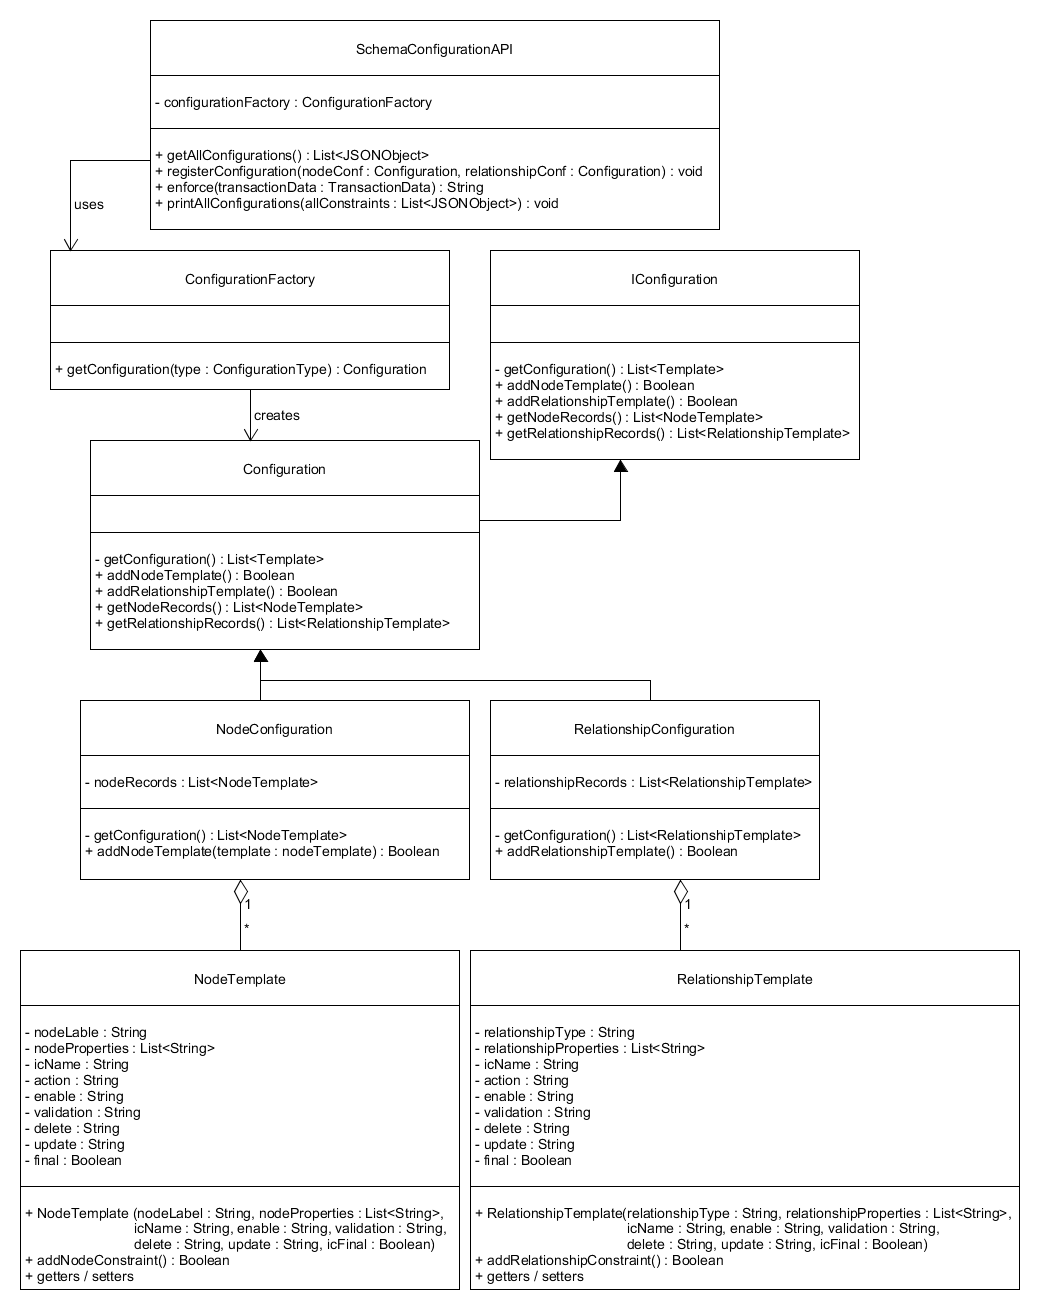
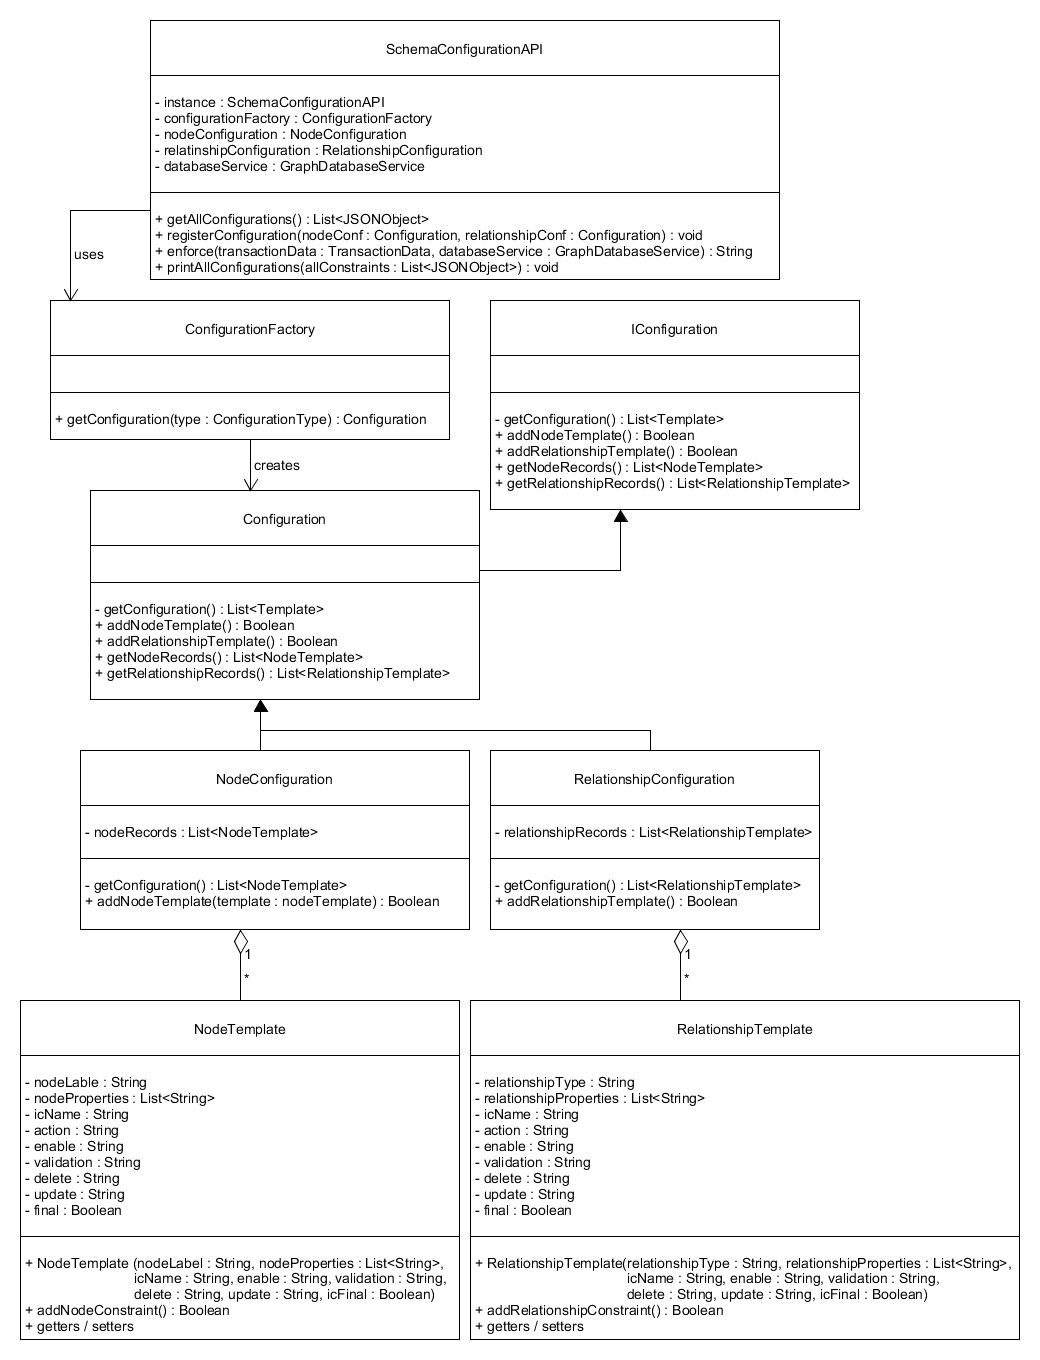
Updated API class diagram

diff --git a/src/main/java/com/kovacic/neo4j/schema/SchemaConfiguration.java b/src/main/java/com/kovacic/neo4j/schema/SchemaConfiguration.java
@@ -22,6 +22,7 @@ public class SchemaConfiguration implements ISchemaConfiguration {
     protected ConfigurationFactory configurationFactory = new ConfigurationFactory();
     private Configuration nodeConfiguration = new NodeConfiguration();
     private Configuration relatinshipConfiguration = new RelationshipConfiguration();
+    private GraphDatabaseService databaseService = null;
 
     @Override
     public List<JSONObject> getAllConfiguration() {
@@ -76,9 +77,10 @@ public class SchemaConfiguration implements ISchemaConfiguration {
     }
 
     @Override
-    public String enforce(TransactionData transactionData) {
+    public String enforce(TransactionData transactionData, GraphDatabaseService database) {
         if (transactionData == null)
             throw new IllegalArgumentException("No transaction data");
+        this.databaseService = database;
         // Disable this print
         printAllConfigurations(getAllConfiguration());
         String message = "";
@@ -303,7 +305,7 @@ public class SchemaConfiguration implements ISchemaConfiguration {
             }
         }
         // Check created nodes with database - not working
-        GraphDatabaseService database = transactionData.createdNodes().iterator().next().getGraphDatabase();
+        //GraphDatabaseService database = transactionData.createdNodes().iterator().next().getGraphDatabase();
         for (Iterator<Node> node1 = transactionData.createdNodes().iterator(); node1.hasNext(); ) {
             Node node = node1.next();
             obj1 = node.getProperty(getPropertyName(template));
@@ -312,12 +314,12 @@ public class SchemaConfiguration implements ISchemaConfiguration {
                 Label lab1 = ll1.next();
                 if (lab1.name().equals(template.nodeLabel)) {
                     if (node.hasProperty(getPropertyName(template))) {
-                        try (Transaction tx = database.beginTx()) {
+                        try (Transaction tx = this.databaseService.beginTx()) {
                             //Node n = database.findNode(lab1, getPropertyName(template), node.getProperty(getPropertyName(template)));
-                            ResourceIterator<Node> rin = database.findNodes(lab1);
+                            ResourceIterator<Node> rin = this.databaseService.findNodes(lab1);
                             while (rin.hasNext()) {
                                 System.out.println(rin.next().getProperty(getPropertyName(template)));
-                                System.out.println(/*node.getId() + */" " + rin.next().getId());
+                                //System.out.println(/*node.getId() + */" " + rin.next().getId());
                                 /*Node temp = rin.next();
                                 if (node.getId() != temp.getId()) {
                                     if (node.getProperty(getPropertyName(template)).equals(temp.getProperty(getPropertyName(template)))) {

diff --git a/src/test/java/com/kovacic/neo4j/schema/ICTests.java b/src/test/java/com/kovacic/neo4j/schema/ICTests.java
@@ -118,7 +118,7 @@ public class ICTests {
             public Void beforeCommit(TransactionData transactionData) throws Exception {
 
                 //Iterator<Node> iterator = transactionData.createdNodes().iterator();
-                String temp = schemaConfiguration.enforce(transactionData);
+                String temp = schemaConfiguration.enforce(transactionData, database);
                 System.out.println(temp);
                 if (!temp.toLowerCase().equals("ok"))
                     throw new RuntimeException(temp);

diff --git a/src/main/java/com/kovacic/neo4j/schema/ISchemaConfiguration.java b/src/main/java/com/kovacic/neo4j/schema/ISchemaConfiguration.java
@@ -14,5 +14,5 @@ public interface ISchemaConfiguration {
     List<JSONObject> getAllConfiguration();
     void printAllConfigurations(List<JSONObject> allConstraints);
     void registerConfiguration(Configuration nodeConf, Configuration relConf);
-    String enforce(TransactionData transactionData);
+    String enforce(TransactionData transactionData, GraphDatabaseService databse);
 }
